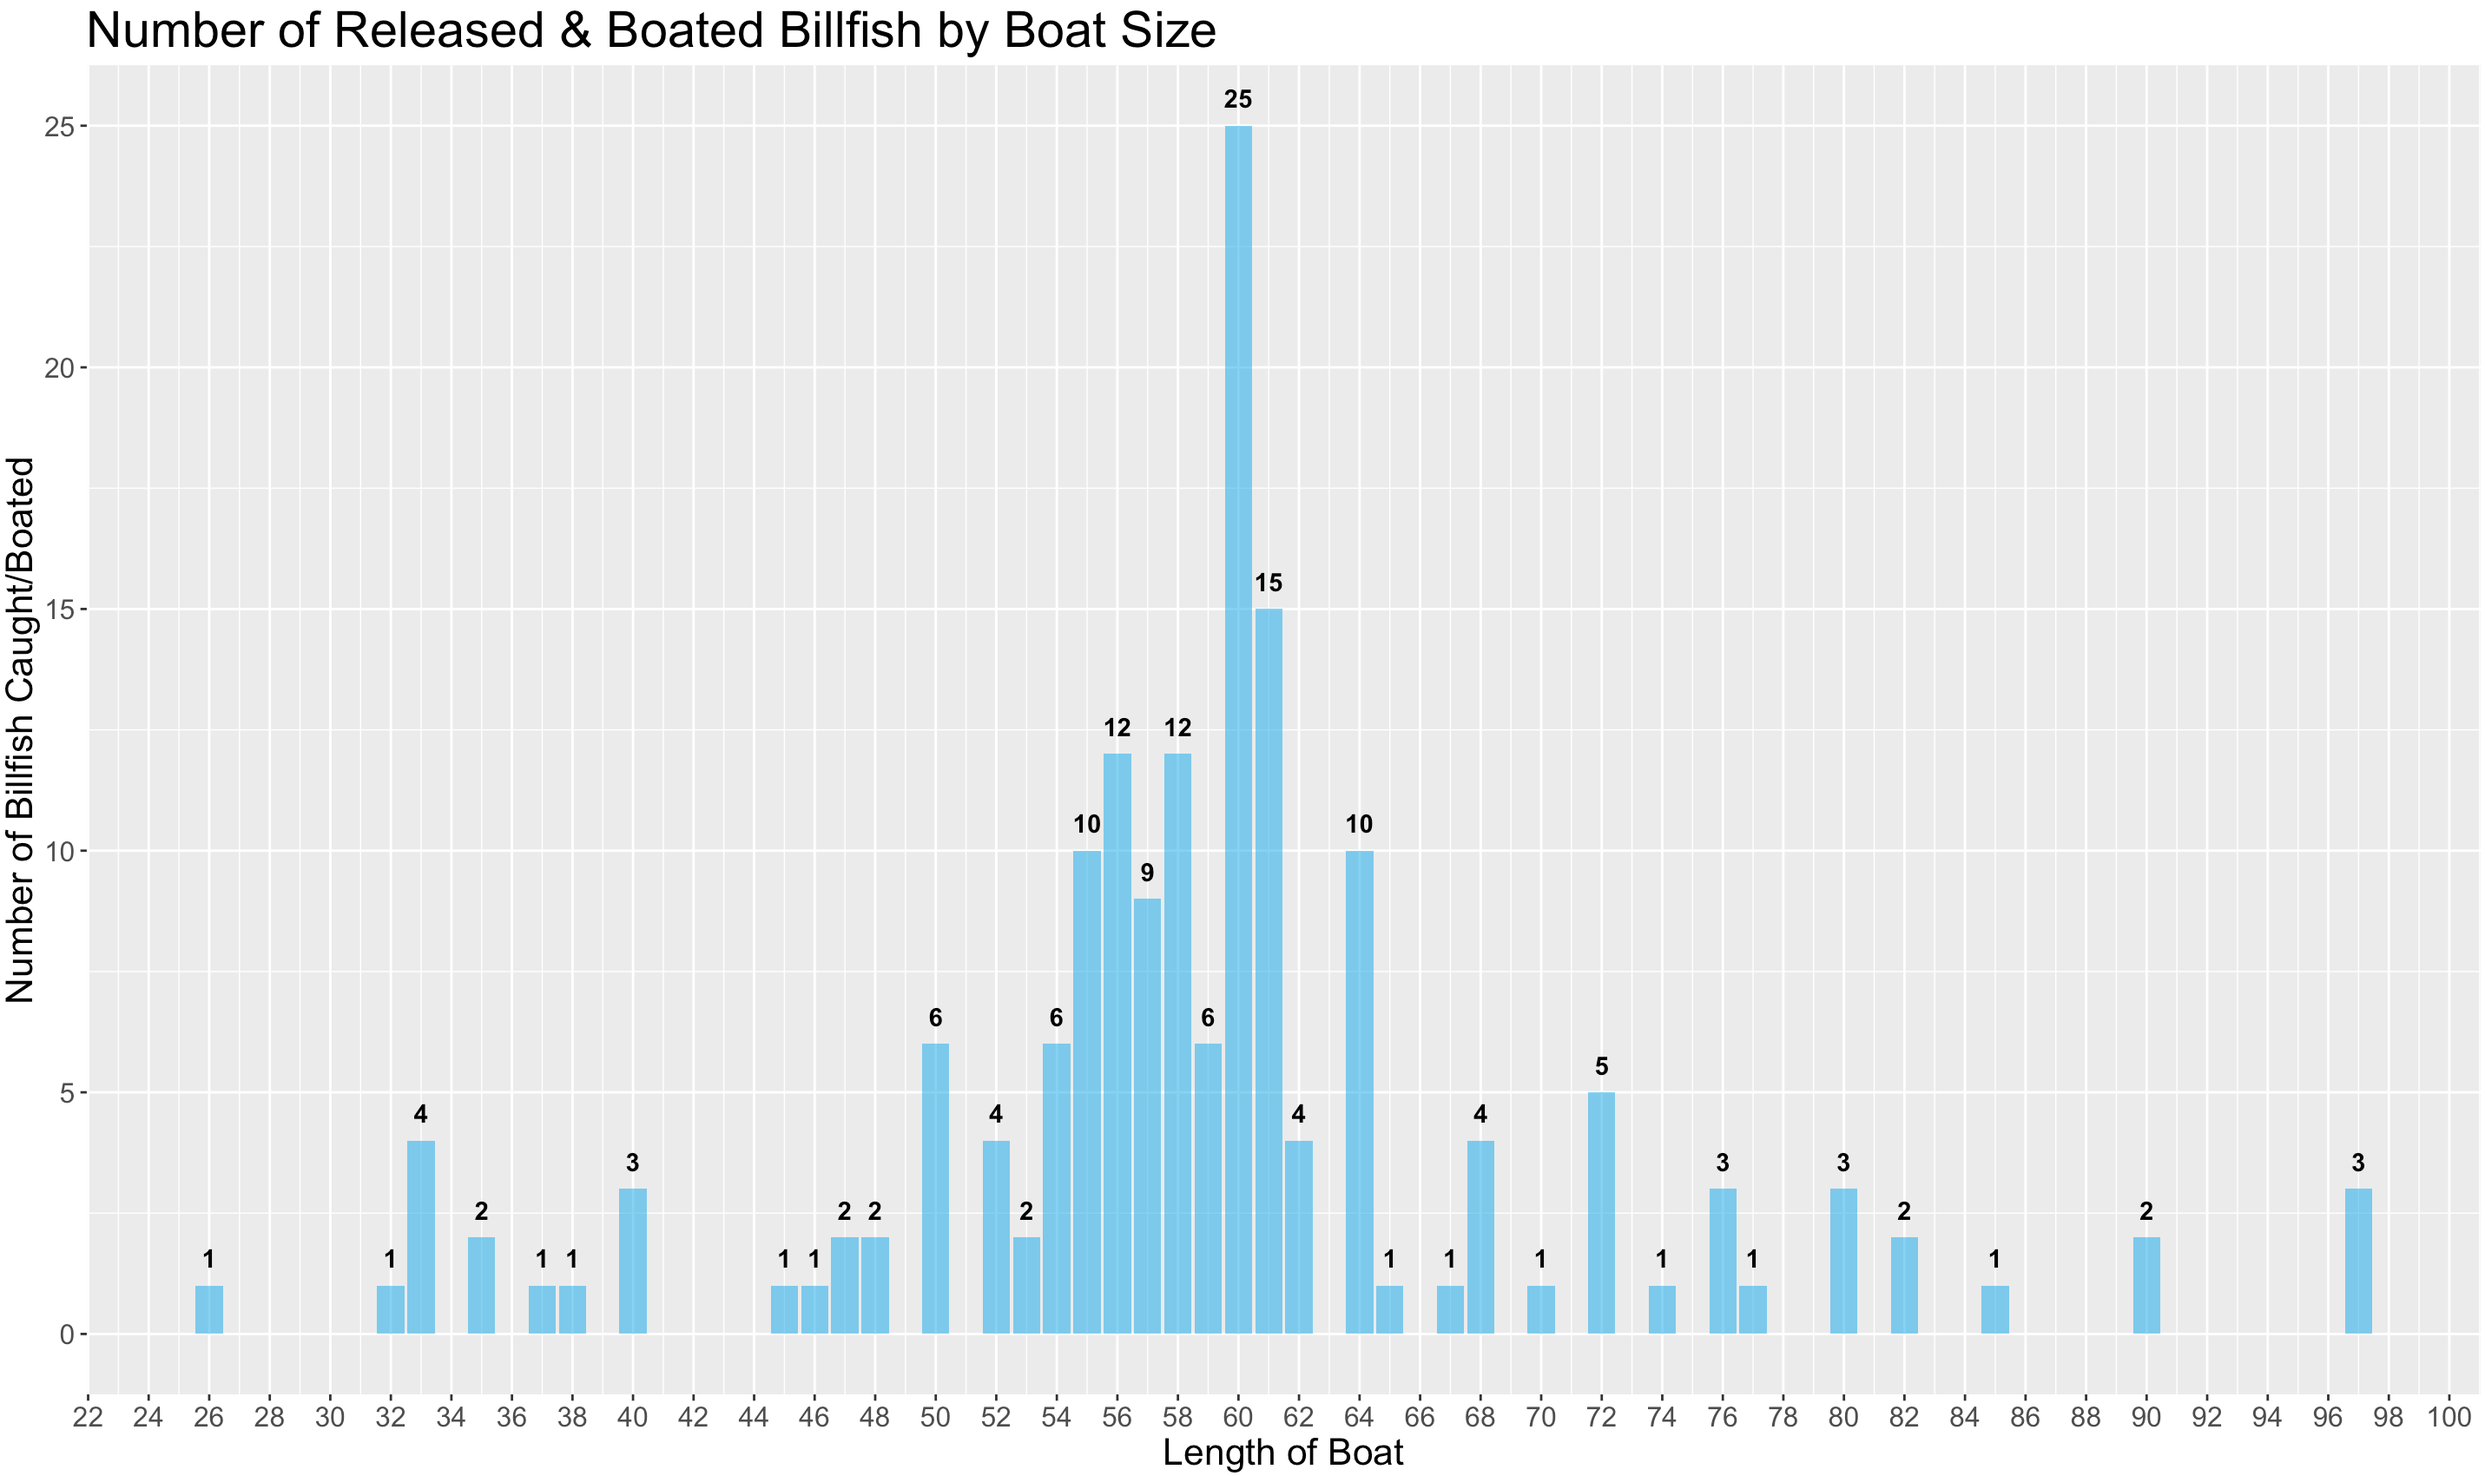
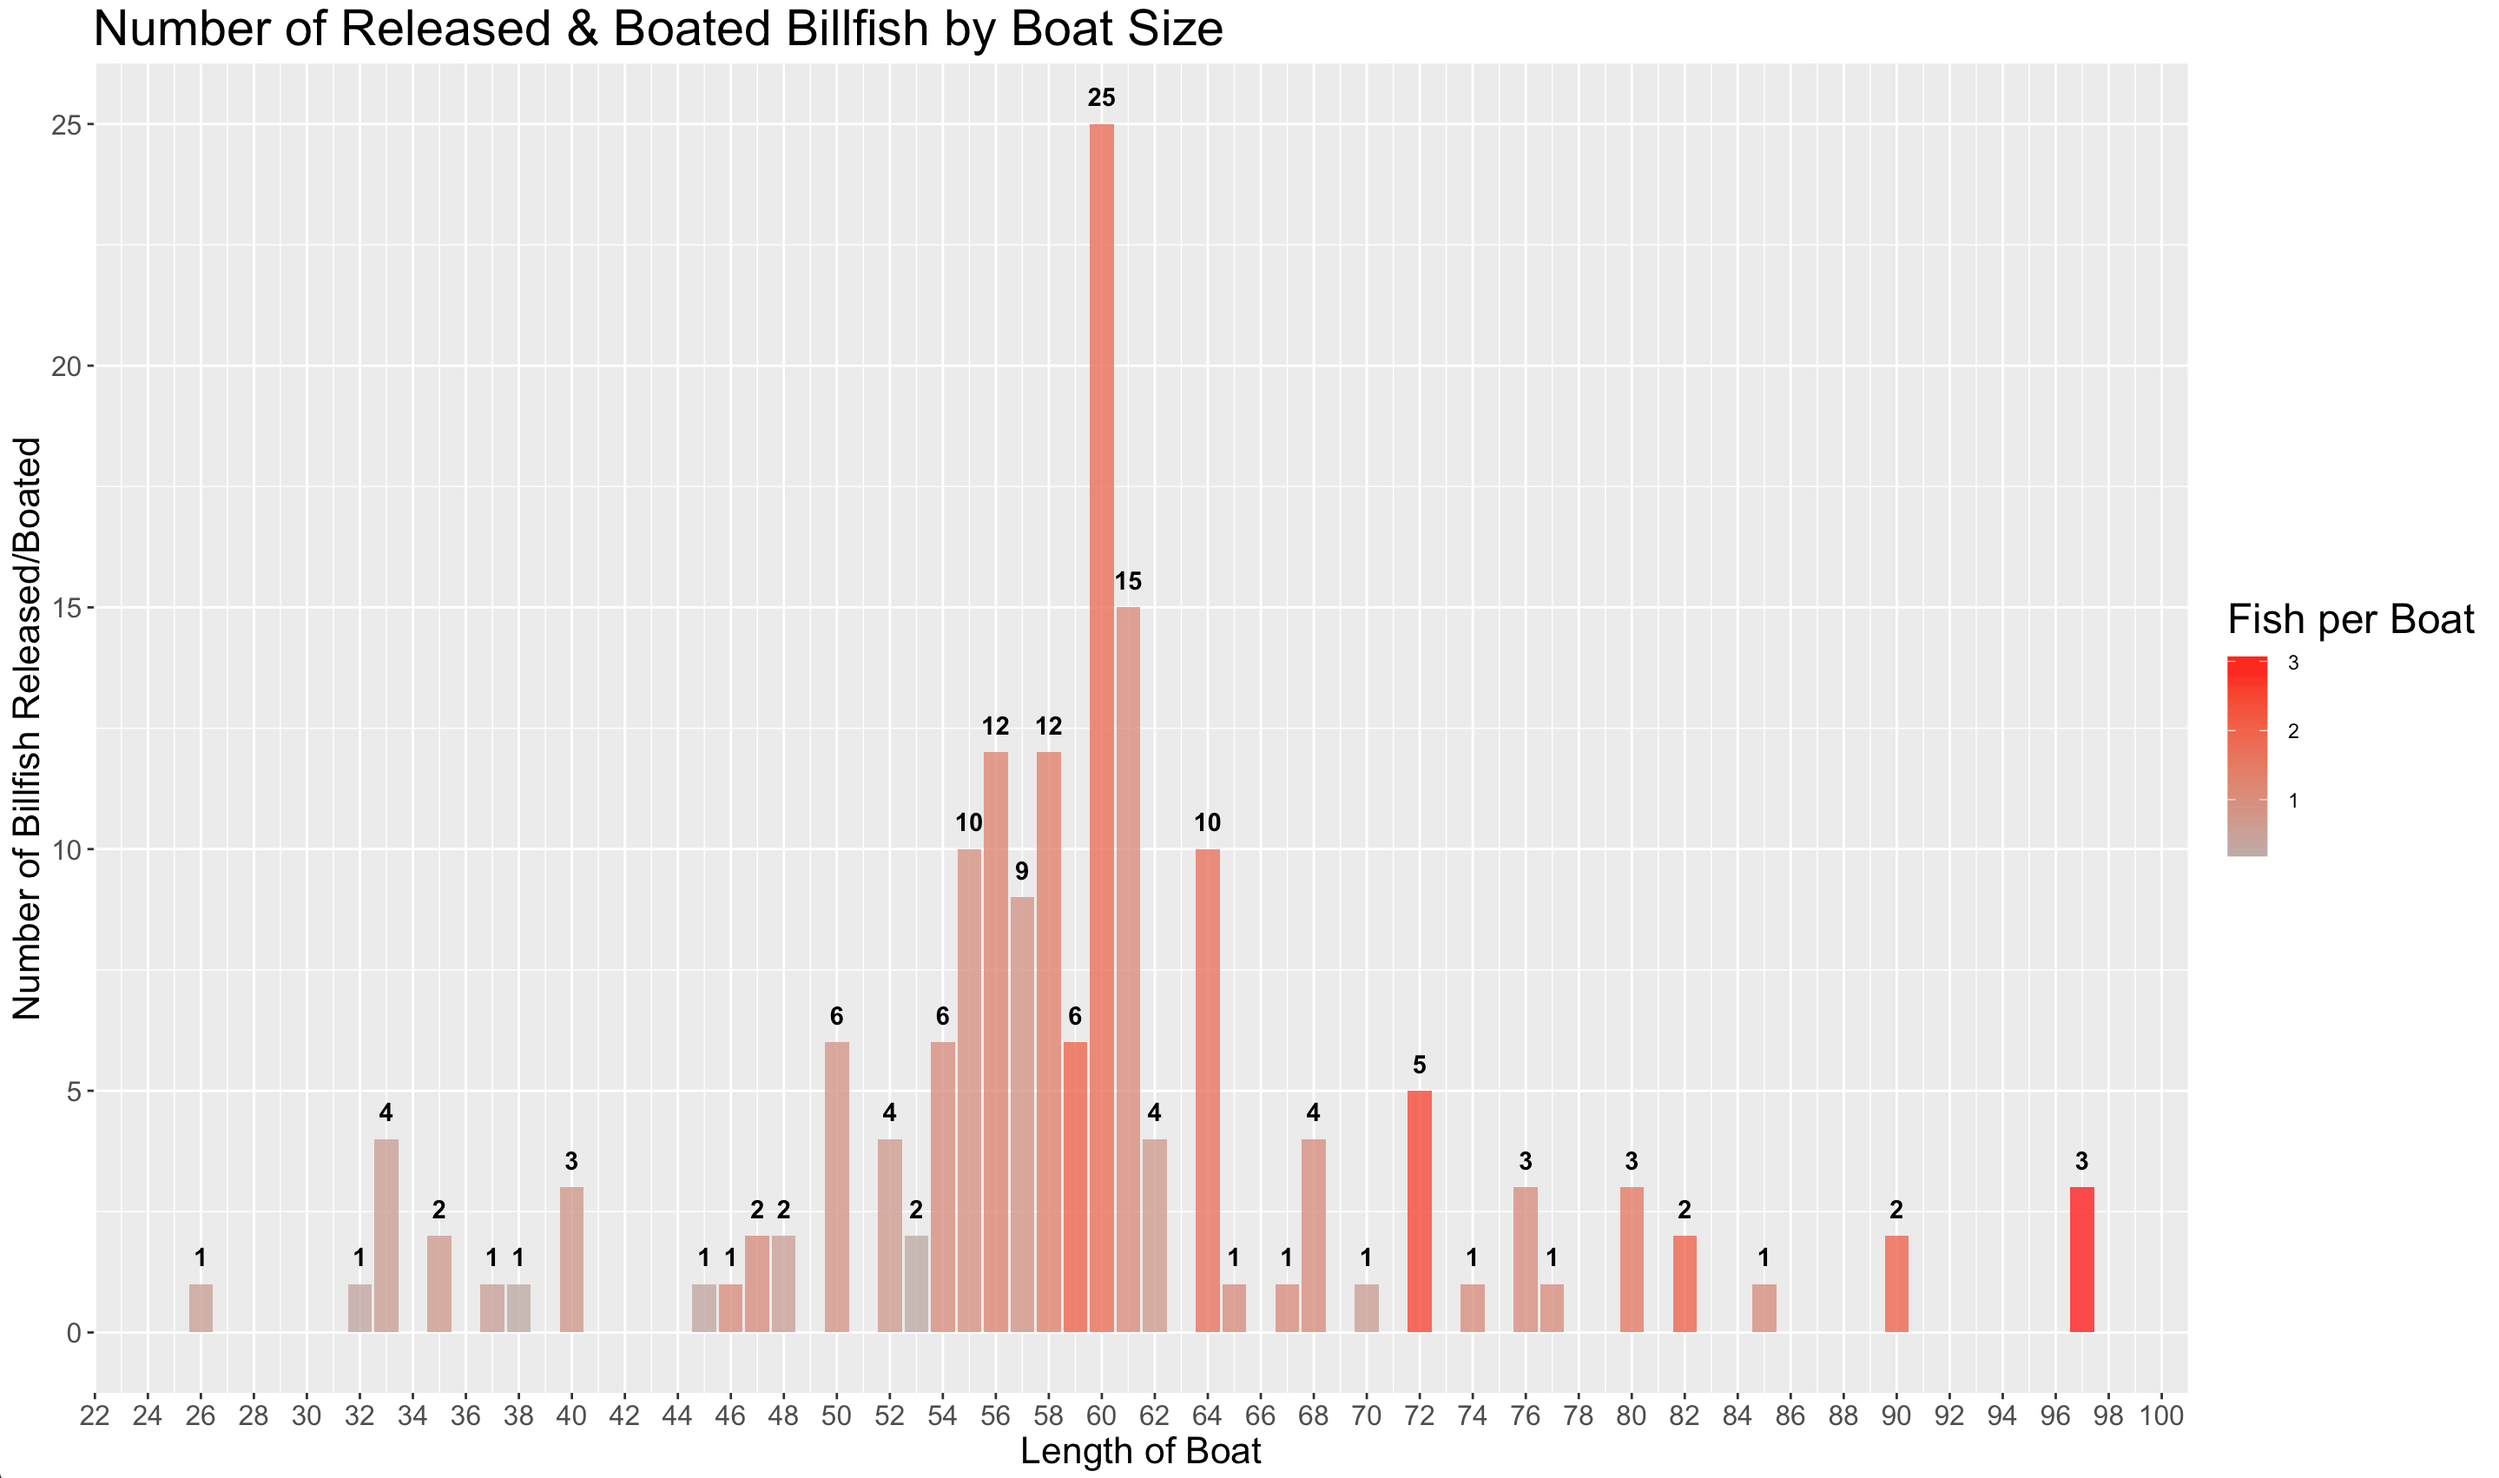
changed relationship plots

diff --git a/_posts/2019-07-14-the-big-rock-fishing-tournament.md b/_posts/2019-07-14-the-big-rock-fishing-tournament.md
@@ -32,7 +32,7 @@ Here is a map to help visualize where it is off the coast of North Carolina. It'
 ![alt]({{ site.url }}{{ site.baseurl }}/images/big_rock/grease_chart.jpg)
 <br/><br/>
 
-If you need some context about the tournament and its rules, please refer to the **Tournament Details** section below. There's also a **Terminology** section to help explain jargon.
+In the **Tournament Details** section below, I go over some general knowledge and rules of the tournament. I recommend reading this part before going into the analysis to gain some context. There's also a **Terminology** section to help explain jargon.
 
 For the person interested in how I obtained the data and and did the analysis, please read the **Technical Notes** section. This was my first web scraping project and I go through some of my struggles and what I learned.  
 
@@ -62,7 +62,7 @@ I explored:
       * Do the above relationships differ if the fish was released or boated?
       * Do the above relationships differ by the species of billfish?
       * How many boats did not catch anything? What is different about them?
-      
+
 <br/><br/><br/>
 
 ## Key Takeaways
@@ -76,23 +76,27 @@ I explored:
 * 10:15-10:30 and 2:15-2:30 were tied for the worst 15-minute interval for hook-ups with 2.
 * which city was the best
 * 63 boats out of the 184 had no activity at all (34%).
+* It is evident that the number of fish caught by boat length or brand is a function of how many boats of a certain length or brand enter the tournament. The distribution of fish caught mimics the distribution of the participants. This means, just by looking at the the distribution of boat lengths and brands of who enters the tournament, we can calculate a probability of a who will win. This phenomena can be described in statistical terms as a *discrete random variable*.  
 <br/><br/><br/>
 
 ## Analysis
 
-### 1. Participants:
+### 1. Participants
 <br/>
 
+Figure 1
 ![alt]({{ site.url }}{{ site.baseurl }}/images/big_rock/image1.jpg)
 * Most boats that entered are 50-64 feet long. Boats in this size range are better equipped for handling bigger seas, traveling long distances, and the demands required for this type of fishing.
 * There are not as many boats over 64 feet long, mainly because the bigger the boat the more expensive it is.
 * 60 and 61 foot boats are tied for the most participants at 14 each. Spoiler, a 60 foot boat won the two main categories: biggest blue marlin and total billfish releases. Very interesting. Could 60 foot boats really outperform 61 foot boats? Does that 1 foot difference matter? What length performed the best overall? Lot's of questions to try and answer.
 <br/><br/><br/>
 
+Figure 2
 ![alt]({{ site.url }}{{ site.baseurl }}/images/big_rock/top25.jpg)
 * As expected, a local heavy tournament.
 <br/><br/><br/>
 
+Figure 3
 ![alt]({{ site.url }}{{ site.baseurl }}/images/big_rock/brands.jpg)
 * Viking is the overwhelming favorite with 32 boats (~18 %) entered in the tournament.
 * It makes sense that Jarret Bay and Hatteras are in the top 10 since they are local brands.
@@ -102,6 +106,7 @@ I explored:
 * 41 of the 184 boats (59%) are lone wolves, meaning their boat brand is the only one that entered the tournament. It's fascinating how many manufacturers there are and how much variation there is in the brands.
 <br/><br/><br/>
 
+Figure 4
 ![alt]({{ site.url }}{{ site.baseurl }}/images/big_rock/map1.jpg)
 * Each red dot is the city of a participant. Multiple participants can come from one point on the map.
 * Boats that participated in the tournament are spread out as far as Texas, South Dakota, Florida, and Michigan. This is good news. It means the tournament is gaining popularity in other regions. Also, owners sometimes put their hometown as the port city of the boat. Their boat isn't physically stationed in the middle of the state.
@@ -109,15 +114,18 @@ I explored:
 * Interesting note: One boat was from Majuro, Marshall Islands, which is a tiny island in the middle of the Pacific Ocean between Hawaii and Australia.
 <br/><br/><br/>
 
+Figure 5
 ![alt]({{ site.url }}{{ site.baseurl }}/images/big_rock/map2.jpg)
 * Participants from NC are spread out all over the state.  
 <br/><br/>
 
+Figure 6
 ![alt]({{ site.url }}{{ site.baseurl }}/images/big_rock/map3.jpg)
 * This map clusters nearby cities together and counts the number of participants in that region. The red dot is a cluster of 1.
 * This tells me there is a lot of opportunity to try and add participants from Virginia, South Carolina, Georgia, and Florida.
 <br/><br/><br/>
 
+Figure 7
 <img src="{{ site.url }}{{ site.baseurl }}/images/big_rock/map4.jpg" height="400" width="400">{: .align-center}
 * Zooming in on the East Coast, we can see the clusters more clearly. Participants from NC are split between the middle of the state and the coast. The red dot is a cluster of 1.
 * Does where the boat is from even matter? We'll see.
@@ -126,6 +134,7 @@ I explored:
 ### 2. Time
 <br/>
 
+Figure 8
 ![alt]({{ site.url }}{{ site.baseurl }}/images/big_rock/time1.jpg)
 * 11-12 PM and 12-1 PM tied for the best time to expect a billfish hook-up.
 * I find this interesting because I thought the morning hours were better.
@@ -134,6 +143,7 @@ I explored:
 * Note: This is only billfish hook-ups. Meat fish were filtered out.
 <br/><br/><br/>
 
+Figure 9
 ![alt]({{ site.url }}{{ site.baseurl }}/images/big_rock/time2.jpg)
 * In the previous plot, 11-1 PM was the best time block overall. However, after I divided it further into 15-minute intervals, 10:00-10:15 AM had the most hook-ups. This was followed by a sharp decline. 10:15-10:30 AM was tied for the worst 15-minute interval all together.
 * This graph indicates what times have higher probabilities for a billfish bite. Although, there appears to be pretty steady activity throughout the day. Better stay alert! (especially from 10-10:15 AM)
@@ -141,27 +151,35 @@ I explored:
 
 
 ### 3. Relationships
+<br/>
 
+Figure 10
 ![alt]({{ site.url }}{{ site.baseurl }}/images/big_rock/r1.jpg)
+* Looks very similar to the distribution of participants in Figure 1! 60 and 61 foot boats look to have outperformed everyone else.
+* It's intuitive that the distribution looks this way because the more boats there are of a certain length, the more opportunities they have to catch fish.
+* I
 
 <br/><br/><br/>
 
+Figure 11
 ![alt]({{ site.url }}{{ site.baseurl }}/images/big_rock/r2.jpg)
 
 <br/><br/><br/>
 
+Figure 12
 ![alt]({{ site.url }}{{ site.baseurl }}/images/big_rock/r3.jpg)
 
 <br/><br/><br/>
 
+Figure 13
 ![alt]({{ site.url }}{{ site.baseurl }}/images/big_rock/r4.jpg)
 
 <br/><br/><br/>
 
+Figure 14
 ![alt]({{ site.url }}{{ site.baseurl }}/images/big_rock/r5.jpg)
 
 <br/><br/><br/>
-
 
 
 ## Tournament Details
